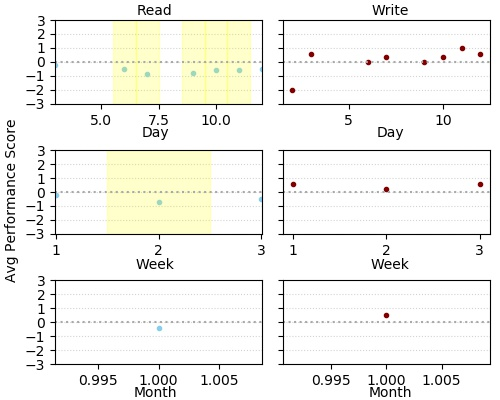
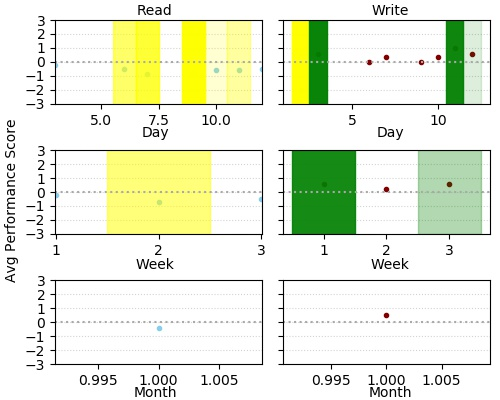
added phase coloring

diff --git a/example/simple_user.py b/example/simple_user.py
@@ -234,6 +234,7 @@ for app in top_apps:
 
     fig, axes = plt.subplots(3, 2, sharey=True, figsize=[5, 4])
     x_axes = ['Day','Week','Month']
+    alpha = 0.2
     for n in range(len(x_axes)):
         x_axis = x_axes[n]
         # First, plot read
@@ -249,10 +250,11 @@ for app in top_apps:
         axes[n][0].set_ylim(-3, 3)
         for i in range(0,len(y)):
             for r in np.arange(0.5,3.5,.5):
+                alpha = alpha+0.2
                 if y[i]>r:
-                    axes[n][0].axvspan(x[i]-0.5, x[i]+0.5, alpha=0.2, color='green')
+                    axes[n][0].axvspan(x[i]-0.5, x[i]+0.5, alpha=alpha, color='green')
                 elif y[i]<-r:
-                    axes[n][0].axvspan(x[i]-0.5, x[i]+0.5, alpha=0.2, color='yellow')
+                    axes[n][0].axvspan(x[i]-0.5, x[i]+0.5, alpha=alpha, color='yellow')
         axes[n][0].set_ylabel('')
         axes[n][0].set_yticks(np.arange(-3,4,1))
         axes[n][0].yaxis.grid(color='lightgrey', linestyle=':')
@@ -270,6 +272,13 @@ for app in top_apps:
         y = df.loc[:,'Performance Z-Score']
         axes[n][1].scatter(x, y, marker='.', color='maroon',label=op)
         axes[n][1].set_ylim(-3, 3)
+        for i in range(0,len(y)):
+            for r in np.arange(0.5,3.5,.5):
+                alpha = alpha+0.2
+                if y[i]>r:
+                    axes[n][1].axvspan(x[i]-0.5, x[i]+0.5, alpha=alpha, color='green')
+                elif y[i]<-r:
+                    axes[n][1].axvspan(x[i]-0.5, x[i]+0.5, alpha=alpha, color='yellow')
         axes[n][1].set_ylabel('')
         axes[n][1].yaxis.grid(color='lightgrey', linestyle=':')
         axes[n][1].set_axisbelow(True)
